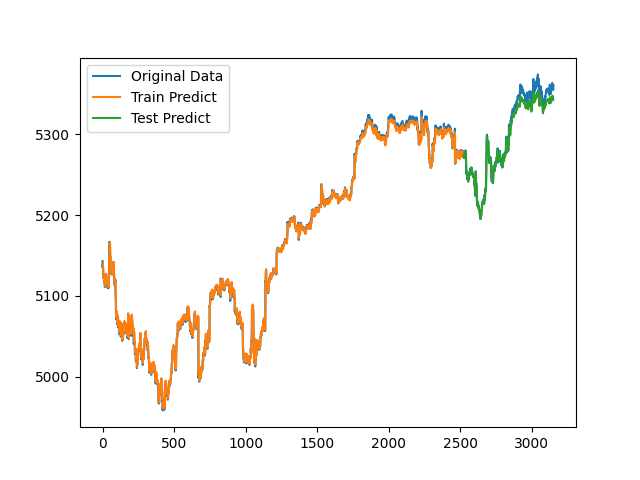
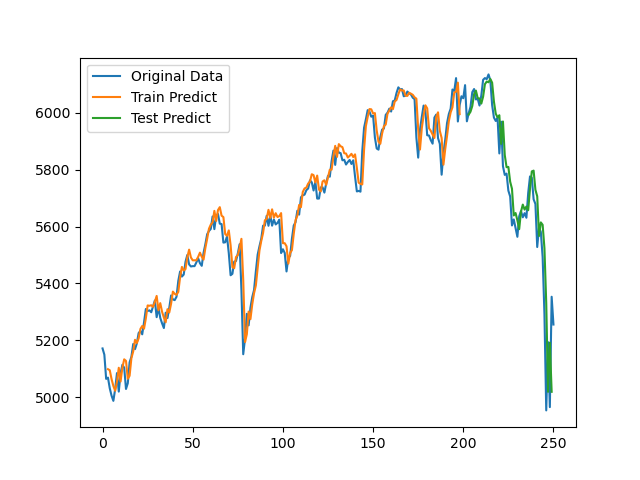
Doprowadzono do działania pobieranie SP500 oraz trening LSTM

diff --git a/projekt2/train_LSTM.py b/projekt2/train_LSTM.py
@@ -6,11 +6,12 @@ import tensorflow as tf
 from tensorflow.keras.models import Sequential
 from tensorflow.keras.layers import Dense
 from tensorflow.keras.layers import LSTM
+from tensorflow.keras.callbacks import EarlyStopping
 from sklearn.preprocessing import MinMaxScaler
 from sklearn.metrics import mean_squared_error
-from tensorflow.keras.callbacks import EarlyStopping
 
-LOOK_BACK = 3
+LOOK_BACK = 10
+EPOCHS = 25
 
 # convert an array of values into a dataset matrix
 def create_dataset(dataset, time_step=1):
@@ -26,9 +27,10 @@ tf.random.set_seed(7)
 
 # load the dataset
 dataframe = read_csv('resources/SP500_history.csv', engine='python')
+print(dataframe.columns)
 
 # Konwersja kolumny 'Datetime' na typ daty
-dataframe['Datetime'] = pd.to_datetime(dataframe['Datetime'])
+dataframe['Datetime'] = pd.to_datetime(dataframe['Date'])
 
 # Wyodrębnienie dat i zamknięć
 dates = dataframe['Datetime'].values
@@ -68,8 +70,8 @@ model.add(LSTM(50, return_sequences=True))
 model.add(LSTM(50))
 model.add(Dense(1))
 model.compile(loss='mean_squared_error', optimizer='adam')
-model.fit(trainX, trainY, epochs=50, batch_size=1, verbose=1, callbacks=[earlyStopCallback])
-model.save("LSTMmodel3.keras")
+model.fit(trainX, trainY, epochs=EPOCHS, batch_size=1, verbose=1, callbacks=[earlyStopCallback])
+model.save(f"LSTMmodel{LOOK_BACK}.keras")
 
 # Make predictions
 trainPredict = model.predict(trainX)
@@ -102,4 +104,4 @@ plt.plot(scaler.inverse_transform(close_values_scaled), label='Original Data')
 plt.plot(trainPredictPlot, label='Train Predict')
 plt.plot(testPredictPlot, label='Test Predict')
 plt.legend()
-plt.savefig("docs/plots/lstm_plot3.png")
+plt.savefig(f"docs/plots/lstm_plot{LOOK_BACK}.png")

diff --git a/projekt2/download_data.py b/projekt2/download_data.py
@@ -1,5 +1,4 @@
 import pandas as pd
-import certifi
 from datetime import timedelta, datetime
 import ssl
 
@@ -25,9 +24,9 @@ def download_tickers_history(tickers: list[str]) -> None:
 		company_data = yf.download(tickers=company_ticker, start = START_DATE, end = END_DATE, interval = "1d")
 		company_data['date'] = company_data.index
 		company_data['ticker'] = company_ticker
-		company_data['Adj Close'] = company_data['Adj Close']
+		company_data['Adj Close'] = company_data['Close']
 		data.append(company_data)
-	
+
 	raw_data = pd.concat(data)
 	raw_data = raw_data[['Open', 'High', 'Low', 'Close', 'Volume', 'date', 'ticker', 'Adj Close']]
 	raw_data.to_csv("resources/new_data.csv")
@@ -39,6 +38,6 @@ def download_SP500():
   
   
 if __name__ == "__main__":
-  download_tickers_history(get_sp500_companies())
-  # download_SP500()
+  # download_tickers_history(get_sp500_companies())
+  download_SP500()
   
